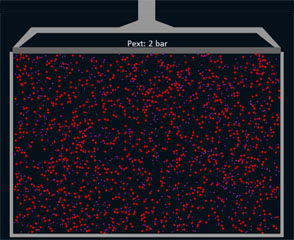
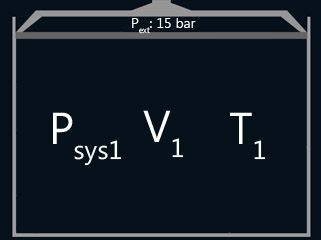
work draft through increasing # molecules done

diff --git a/levels/WorkRevised.js b/levels/WorkRevised.js
@@ -13,13 +13,19 @@ _.extend(Work.prototype,
 {
 	init: function(){
 		$('#mainHeader').text('Work');
-		nextPrompt();
+		showPrompt(0, 0, true);
 	},	
 	
 	declareBlocks: function(){
 		this.blocks=[
 		{
-			setup:undefined,
+			setup:
+				function() {
+					currentSetupType = 'block';
+					new AuxPicture('img/work/block0Pic1.jpg');
+					new AuxPicture('img/work/block0Pic2.jpg');
+					
+				},
 			prompts:[
 				{
 					setup:undefined,
@@ -29,10 +35,10 @@ _.extend(Work.prototype,
 						type:'multChoice',
 						options:
 							[
-							{text:"||EQ2||", isCorrect: false, message:'No!  You do no work with constant volume'},
-							{text:"||EQ3||", isCorrect: false, message:"No!"},
+							{text:"||EQ2||", isCorrect: false, message:"Yeah, but you won't do no work with constant volume in this system"},
+							{text:"||EQ3||", isCorrect: false, message:"Which P should you be using?"},
 							{text:"||EQ1||", isCorrect: true},
-							{text:"||EQ4||", isCorrect: false, message:"It is dependant on change in volume, but T?"}
+							{text:"||EQ4||", isCorrect: false, message:"Do your units work out?"}
 						]
 					},
 				},
@@ -59,7 +65,7 @@ _.extend(Work.prototype,
 					currentSetupType = 'block';
 					walls = WallHandler({pts:[[P(40,30), P(510,30), P(510,440), P(40,440)]], handlers:'staticAdiabatic', handles:['container']});
 					walls[0].setHitMode('ArrowSpd');
-					this.borderStd();
+					this.borderStd({min:30});
 					this.compArrow = new CompArrow({mode:'adiabatic', speed:1.5});
 					spcs['spc4'].populate(P(45,235), V(460, 100), 1, 600);
 					this.tempListener = new StateListener({dataList:walls[0].data.t, is:'notEqualTo', targetVal:dataHandler.temp(), alertUnsatisfied:"Try hitting the molecule with the wall while the wall's moving"});			
@@ -67,7 +73,7 @@ _.extend(Work.prototype,
 			prompts:[
 				{
 					setup:undefined,
-					text:"<center>||EQ6||</center>From the equation above we see that temperature increases as we do work by decreasing volume.  Let's see what's happening from the point of view of a molecule in the system.  Using the movable wall above, can you determine what event causes the molecule's speed to change?  Can you explain why that would cause a temperature change in many molecules?",
+					text:"<center>||EQ6||</center>From the equation above we see that temperature increases as we do work by decreasing volume.  Temperature is an expression is molecular kinetic energy, so as the system is compressed, the molecules must speed up.  These ideal gas molecules can be thought of as perfectly elastic bouncy balls (I can add the model bit if anyone really wants, but I kind of like 'thought of' better).  Using the movable wall above, can you determine what event causes the molecule's speed to change?  Can you explain why that would cause a temperature change in many molecules?",
 					quiz:{	
 						type:'text',
 						text:'Type your answer here',
@@ -76,7 +82,7 @@ _.extend(Work.prototype,
 				},
 				{
 					setup:undefined,
-					text:"So as we add energy through work out system's temperature rises.  We know that temperature is an expression of molecular kinetic energy.  Since energy is conserved, as we add energy through work, the molecules speed up.<br>Now let's do an experiment where we adiabatically compress the system pictures earlier FIX",
+					text:"<p>So the molecule's speed up when they collide with the moving wall.  Those collisions add kinetic energy, which means that the temperature increases.</p><p>Now let's do an experiment where we compress the previously pictured (<--maybe change) adiabatic system.",
 				}
 			]
 		},
@@ -98,7 +104,7 @@ _.extend(Work.prototype,
 					this.dragWeights = new DragWeights({weightDefs:[{name:'lrg', count:1, mass:213.2}], weightScalar:8, displayText:false, massInit:0, compMode:'cPAdiabaticDamped', pistonOffset:V(130,-41)});
 					this.piston = new Piston({wallInfo:'container', init:2, min:2, max:15, makeSlider:false});
 					walls[0].displayPExt();
-					this.borderStd();
+					this.borderStd({min:30});
 				},
 			prompts:[
 				{
@@ -107,12 +113,11 @@ _.extend(Work.prototype,
 							currentSetupType = 'prompt';
 							this.volListener10 = new StateListener({dataList:walls[0].data.v, is:'lessThan', targetVal:10, alertUnsatisfied:'Compress the system!', cleanUpWith:currentSetupType});						
 						},
-					text:"Above is a piston cylinder assembly that is well insulated.  Place the block on top of the poston and observe the response.  How much work did you do on the system?",
+					text:"Above is a well insulated piston cylinder assembly.  Place the block on top of the poston and observe the response.  How much work did you do on the system?",
 					quiz:{	
 						type:'textSmall',
 						units:'kJ',
 						text:'',
-						//NEED TO STORE ANSWER
 					},	
 				},
 				{
@@ -122,8 +127,9 @@ _.extend(Work.prototype,
 						type:'textSmall',
 						units:'K',
 						text:'',
-						//NEED TO STORE ANSWER
 					},
+					replace: 
+						[{oldStr:'XXX', newStr:'GET#userAnswerBlock2Prompt0'}]
 				}
 			]
 		},
@@ -131,7 +137,7 @@ _.extend(Work.prototype,
 			setup:
 				function() {
 					currentSetupType = 'block';
-					this.blocks[2].setup();
+					this.blocks[2].setup.apply(this);
 					walls[0].displayTemp();
 					walls[0].displayWork();
 					this.graphs.tVSv = new GraphScatter({handle:'tVSv', xLabel:"Volume (L)", yLabel:"Temperature (K)",
@@ -141,12 +147,19 @@ _.extend(Work.prototype,
 				},
 			prompts:[
 				{
-					setup:undefined,
-					text:"Previously you answered that the compression did XXX kJ on the system for a final temperature of YYY K.  Here's the same compression, but thime we're displaying work done and temperature. How do the results compare?  If there's a discrepency, can you account for it?",
+					setup:
+						function() {
+							this.blocks[2].prompts[0].setup.apply(this);
+						},
+					text:"Previously you answered that the compression did XXXkJ on the system for a final temperature of YYYK.  Here's the same compression, but this time we're displaying work done and temperature. How do the results compare?  If there's a discrepency, can you account for it?",
 					quiz:{
 						type:'text',
 						text:"Type your answer here",
 					},
+					replace:
+						[{oldStr:'XXX', newStr:'GET#userAnswerBlock2Prompt0'},
+						{oldStr:'YYY', newStr:'GET#userAnswerBlock2Prompt1'}
+						]
 				}
 			
 			]
@@ -155,13 +168,21 @@ _.extend(Work.prototype,
 			setup:
 				function() {
 					currentSetupType = 'block';
-					//load graphs
+					this.graphs.pVSvLoad = getStore('pVSvblock3prompt0').load();
+					this.graphs.tVSvLoad = getStore('tVSvblock3prompt0').load();
 				},
 			prompts:[
 				{
 					setup:undefined,
-					text:"If you'll notice, the T vs. V graph is linear.  
+					cutScene:true,
+					text:"||EQ6CEIf you'll notice, the T vs. V graph is linear.  Using the equation above, find what its slope should should be with 1.8 moles of an ideal monatomic gas.  Do the slopes from the equation and from the graph match?  Given our P<sub>ext</sub>, should the slopes be linear or did something go wrong?",
+					quiz:{
+						type:'text',
+						text:"Type your answer here",
+					},
+				}							
 			]
+		}
 		
 		]
 	}

diff --git a/LevelTools.js b/LevelTools.js
@@ -239,7 +239,7 @@ LevelTools = {
 					alert(option.message);
 				}
 				if (option.response) {
-					store('block'+curLevel.blockIdx+'Prompt'+curLevel.promptIdx + 'Response', option.response);
+					store('block'+blockIdx+'Prompt'+promptIdx + 'Response', option.response);
 				}
 				if (option.isCorrect) {
 					nextPrompt(true);
@@ -268,22 +268,27 @@ LevelTools = {
 		textBoxHTML += "<table border=0><tr><td width=75%></td><td><button id='textAreaSubmit' class='noSelect'>Submit</button></td></tr></table>";
 		var checkFunc = function() {
 			if (checkWillAdvance()) {
-				if (quiz.answer) {
-					var submitted = $('#answerTextArea').val();
-					if(fracDiff(parseFloat(quiz.answer), parseFloat(submitted))<.05){
-						if(quiz.messageRight){
-							alert(quiz.messageRight);
+				var submitted = $('#answerTextArea').val();
+				if (submitted != '') {
+					if (quiz.answer) {
+						if(fracDiff(parseFloat(quiz.answer), parseFloat(submitted))<.05){
+							if(quiz.messageRight){
+								alert(quiz.messageRight);
+							}
+							store('userAnswerBlock'+blockIdx+'Prompt'+promptIdx, submitted);
+							nextPrompt(true);
+						}else{
+							if(quiz.messageWrong){
+								alert(quiz.messageWrong);
+							}
 						}
-						store('userAnswerBlock'+curLevel.blockIdx+'Prompt'+curLevel.promptIdx, submitted);
-						nextPrompt(true);
 					}else{
-						if(quiz.messageWrong){
-							alert(quiz.messageWrong);
-						}
+						store('userAnswerBlock'+blockIdx+'Prompt'+promptIdx, submitted);
+						nextPrompt(true);
 					}
-				}else{
-					store('userAnswerBlock'+curLevel.blockIdx+'Prompt'+curLevel.promptIdx, submitted);
-					nextPrompt(true);
+					 
+				} else {
+					alert("You haven't written an answer!");
 				}
 			}
 		}
@@ -291,23 +296,6 @@ LevelTools = {
 		$('button').button();
 		buttonBind('textAreaSubmit', checkFunc);
 	},
-	/*
-	conditions: function(){
-		var prompt = this.prompts[this.promptIdx];
-		var conditions = defaultTo(this['block'+this.blockIdx+'Conditions'], prompt.conditions);
-		if(!conditions){
-			return true;
-		}else{
-			var condResult = conditions.apply(this);
-			
-			if(condResult.alert){
-				alert(condResult.alert);
-			}
-			return condResult.result;
-		}
-	
-	},
-	*/
 	hideDash: function(){
 		$('#dashIntro').hide();
 		$('#dashRun').hide();

diff --git a/base.js b/base.js
@@ -43,7 +43,7 @@ $(function(){
 	dataInterval = 1250;
 	borderCol = Col(155,155,155);
 	auxHolderDivs = ['aux1', 'aux2'];
-	promptIdx = -1;
+	promptIdx = 0;
 	blockIdx = 0;
 	sliderList = [];
 	spcs = {};
@@ -254,7 +254,9 @@ function addInterval(funcHandle, func, destObj, interval) {
 	extraIntervals[funcHandle] = window.setInterval(function(){func.apply(destObj)}, interval);
 }
 function removeListener(object, typeName, funcName){
+	try{
 	delete object[typeName + 'Listeners'].listeners[funcName];
+	}catch(e){console.trace()}
 }
 function removeInterval(funcHandle) {
 	if (extraIntervals[funcHandle]) {
@@ -517,7 +519,7 @@ function showPrompt(newBlockIdx, newPromptIdx, forceReset){
 		newPrompt.setup.apply(curLevel)
 	}
 	if (newPrompt.replace) {
-		newPrompt.text = replaceStrings(prompt.text, prompt.replace);
+		newPrompt.text = replaceStrings(newPrompt.text, newPrompt.replace);
 	}
 	if (!newPrompt.quiz) {
 		$('#nextPrevDiv').show();
@@ -616,6 +618,7 @@ function checkWillAdvance() {
 			}
 		} else {
 			willAdvance = 0;
+			alertValid(promptResults.alert);
 		}
 	}
 	return willAdvance;
@@ -636,8 +639,11 @@ function replaceStrings(text, replaceList){
 		var oldStr = replace.oldStr;
 		var newStr = replace.newStr;
 		if(typeof newStr == 'string' && newStr.indexOf('GET')==0){
-			
-			newStr = getStore(newStr.slice(3,newStr.length));
+			if (newStr.indexOf('#')==3) {
+				newStr = parseFloat(getStore(newStr.slice(4,newStr.length)));
+			} else {
+				newStr = getStore(newStr.slice(3,newStr.length));
+			}
 		} else if (typeof newStr == 'function'){
 			newStr = newStr();
 		}

diff --git a/objects01.js b/objects01.js
@@ -208,10 +208,8 @@ _.extend(DragWeights.prototype, objectFuncs, compressorFuncs, {
 	},
 	remove: function(){
 		this.wall.moveStop();
-		//removeListener(curLevel, 'update', 'moveWeightsOnPiston' + this.wallInfo);
 		removeListener(curLevel, 'update', 'drawDragWeights' + this.wallInfo);
 		removeListener(curLevel, 'mousedown', 'weights' + this.wallInfo);
-		removeListener(curLevel, 'reset', 'dragWeights' + this.wallInfo);
 	},
 	getWeightDims: function(weightDefs){
 		var dims = {};

diff --git a/GraphHist.js b/GraphHist.js
@@ -29,7 +29,6 @@ function GraphHist(handle, width, height, xLabel, yLabel, axisInit, data){
 	var canvasData = this.makeCanvas(this.dims);
 	this.drawAllBG();
 	this.addSet('only', barCol, data);
-	addListener(curLevel, 'reset', 'clearGraph'+handle, this.clear, this);
 }
 /*
 Good evening:  I am keeping histogram data in data.someName, not just data, even though there is only one for now.

diff --git a/WallHandler.js b/WallHandler.js
@@ -1321,7 +1321,7 @@ WallMethods = {
 		},
 		displayTempStop: function(){
 			this.displayingTemp = false;
-			removeListener(curLevel, 'data', 'displayTemp' + this.handle)
+			removeListener(curLevel, 'update', 'displayTemp' + this.handle)
 			this.tempReadout.removeEntry('temp' + this.handle);
 			return this;
 		},

diff --git a/GraphBase.js b/GraphBase.js
@@ -46,7 +46,6 @@ GraphBase = {
 	},
 	makeCanvasNoReset: function(dims, parentDiv) {
 		var self = this;
-		addListener(curLevel, 'reset', 'clearGraph'+this.handle, this.clear, this);
 		this.buttonId = this.handle + 'reset';
 		if (!parentDiv){
 			this.parentDiv = this.pickParentDiv('graph');
